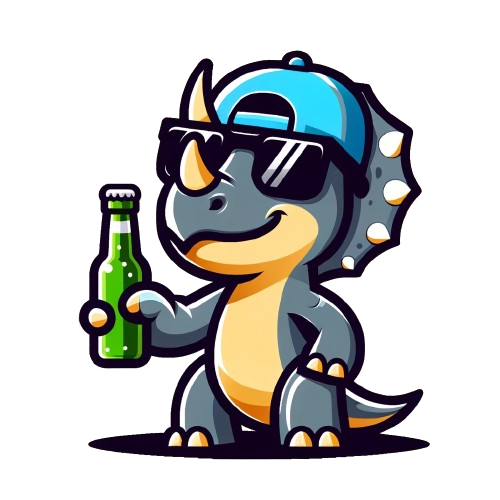
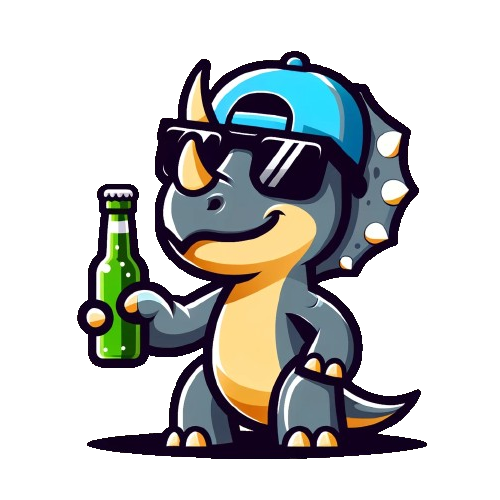
Added new images

diff --git a/util/PremadeQuestions.ts b/util/PremadeQuestions.ts
@@ -224,4 +224,92 @@ const _pmd_002: Question[] = [
   },
 ];
 
+const _pmd_003: Question[] = [
+  { gameId: "_pmd_003", questionStr: "Hvem lager de gøyeste vorsene?" },
+  { gameId: "_pmd_003", questionStr: "Hvem bruker mest penger på byen?" },
+  { gameId: "_pmd_003", questionStr: "Hvem har finest kjønnsorgan?" },
+  { gameId: "_pmd_003", questionStr: "Hvem er mest harry?" },
+  { gameId: "_pmd_003", questionStr: "Hvem er mest dirty?" },
+  { gameId: "_pmd_003", questionStr: "Hvem har sykeste fetishen?" },
+  {
+    gameId: "_pmd_003",
+    questionStr: "Hvem gir snusboksen videre med et kyss?",
+  },
+  { gameId: "_pmd_003", questionStr: "Hvem er alltid med på fylla?" },
+  { gameId: "_pmd_003", questionStr: "Hvem kjører mest brannbil?" },
+  { gameId: "_pmd_003", questionStr: "Hvem er mest luremus?" },
+  { gameId: "_pmd_003", questionStr: "Hvem mistet jomfrudommen først?" },
+  { gameId: "_pmd_003", questionStr: "Hvem mistet jomfrudommen sist?" },
+  { gameId: "_pmd_003", questionStr: "Hvem har flest sexleketøy?" },
+  { gameId: "_pmd_003", questionStr: "Hvem kunne kjøpt sex?" },
+  { gameId: "_pmd_003", questionStr: "Hvem har mest sexy antrekk?" },
+  { gameId: "_pmd_003", questionStr: "Hvem gir best rimjob?" },
+  { gameId: "_pmd_003", questionStr: "Hvem sender flest nudes?" },
+  { gameId: "_pmd_003", questionStr: "Hvem mottar flest nudes?" },
+  { gameId: "_pmd_003", questionStr: "Hvem har en dilf/milf?" },
+  { gameId: "_pmd_003", questionStr: "Hvem har sexet flest fra Tinder?" },
+  { gameId: "_pmd_003", questionStr: "Hvem svelger alltid?" },
+  {
+    gameId: "_pmd_003",
+    questionStr: "Hvem kommer flest ganger i løpet av en økt?",
+  },
+  { gameId: "_pmd_003", questionStr: "Hvem har flest ONS?" },
+  { gameId: "_pmd_003", questionStr: "Hvem har sugd en hund for 100.000 kr?" },
+  { gameId: "_pmd_003", questionStr: "Hvem blir ferdig på 2 minutter?" },
+  { gameId: "_pmd_003", questionStr: "Hvem svetter mest under sex?" },
+  { gameId: "_pmd_003", questionStr: "Hvem har hatt sex med flest?" },
+  { gameId: "_pmd_003", questionStr: "Hvem er festens sugeguri?" },
+  { gameId: "_pmd_003", questionStr: "Hvem er festens slikkerolf?" },
+  { gameId: "_pmd_003", questionStr: "Hvem vil du komme i buksa på i kveld?" },
+  { gameId: "_pmd_003", questionStr: "Hvem sovner under sex?" },
+  { gameId: "_pmd_003", questionStr: "Hvem liker BDSM?" },
+  { gameId: "_pmd_003", questionStr: "Hvem er mest kreativ i loppekassa?" },
+  { gameId: "_pmd_003", questionStr: "Hvem jobber mest på byen?" },
+  { gameId: "_pmd_003", questionStr: "Hvem er best å ha sex med i rommet?" },
+  { gameId: "_pmd_003", questionStr: "Hvem får mest oppmerksomhet på byen?" },
+  { gameId: "_pmd_003", questionStr: "Hvem får oftest whiskydick?" },
+  { gameId: "_pmd_003", questionStr: "Hvem blir mest ulik seg selv på fylla?" },
+  { gameId: "_pmd_003", questionStr: "Hvem chugger raskest?" },
+  { gameId: "_pmd_003", questionStr: "Hvem blir mest rejecta på byen?" },
+  { gameId: "_pmd_003", questionStr: "Hvem shotter mest?" },
+  { gameId: "_pmd_003", questionStr: "Hvem er beste wingman/woman?" },
+  { gameId: "_pmd_003", questionStr: "Hvem er villest på vors?" },
+  { gameId: "_pmd_003", questionStr: "Hvem barberer seg sjeldnest?" },
+  { gameId: "_pmd_003", questionStr: "Hvem er vorsets kamasutra?" },
+  { gameId: "_pmd_003", questionStr: "Hvem har onanert før vors?" },
+  {
+    gameId: "_pmd_003",
+    questionStr: "Hvem har sugd den mest massive black anaconda'en?",
+  },
+  { gameId: "_pmd_003", questionStr: "Hvem går alltid tilbake til exen?" },
+  { gameId: "_pmd_003", questionStr: "Hvem er kåtest i rommet?" },
+  {
+    gameId: "_pmd_003",
+    questionStr: "Hvem kunne meldt seg på Ex on the Beach?",
+  },
+  { gameId: "_pmd_003", questionStr: "Hvem er lettest på tråden?" },
+  { gameId: "_pmd_003", questionStr: "Hvem deler sexlivet sitt med alle?" },
+  { gameId: "_pmd_003", questionStr: "Hvem faker flest orgasmer?" },
+  { gameId: "_pmd_003", questionStr: "Hvem er høylytt i sengen?" },
+  { gameId: "_pmd_003", questionStr: "Hvem får oftest fylleangst?" },
+  { gameId: "_pmd_003", questionStr: "Hvem er den største goldiggeren?" },
+  { gameId: "_pmd_003", questionStr: "Hvem er den største cougaren?" },
+  {
+    gameId: "_pmd_003",
+    questionStr: "Hvem ville sexet faren/moren til en venn?",
+  },
+  {
+    gameId: "_pmd_003",
+    questionStr: "Hvem kunne solgt brukte truser på nett?",
+  },
+  { gameId: "_pmd_003", questionStr: "Hvem shopper flest angrepiller?" },
+  { gameId: "_pmd_003", questionStr: "Hvem er oftest å se på helsestasjonen?" },
+  { gameId: "_pmd_003", questionStr: "Hvem loker mest rundt på Pornhub?" },
+  { gameId: "_pmd_003", questionStr: "Hvem bruker buttpluggen flittigst?" },
+  { gameId: "_pmd_003", questionStr: "Hvem er minst kresen?" },
+  { gameId: "_pmd_003", questionStr: "Hvem ble utestengt under en trekant?" },
+];
+
+const _pmd_004: Question[] = [];
+
 export { _pmd_001, _pmd_002 };

diff --git a/util/ApiManager.ts b/util/ApiManager.ts
@@ -1,4 +1,4 @@
-const URL_BASE = "http://trike.azurewebsites.net/spike";
+const PROD_URL_BASE = "https://trike.azurewebsites.net/spike";
 const DEV_URL_BASE = "http://localhost:5088/spike";
 
 interface Question {
@@ -9,28 +9,25 @@ interface Question {
 const fetchQuestionsForGame = async (gameId: string) => {
   try {
     const response = await fetch(
-      `${DEV_URL_BASE}?gameId=${encodeURIComponent(gameId)}`,
+      `${PROD_URL_BASE}?gameId=${encodeURIComponent(gameId)}`,
       {
         method: "GET",
-        headers: {
-          "Content-Type": "application/json",
-        },
       }
     );
 
     if (!response.ok) {
-      throw new Error(`HTTP error! Status: ${response.status}`);
+      throw new Error(`Error: ${response.status}`);
     }
 
     return await response.json();
   } catch (error) {
-    console.error(`Error: ${error}`);
+    console.error(`GET not working: ${error}`);
   }
 };
 
 const postQuestionToGame = async (question: Question) => {
   try {
-    const response = await fetch(DEV_URL_BASE, {
+    const response = await fetch(PROD_URL_BASE, {
       method: "POST",
       headers: {
         "Content-Type": "application/json",
@@ -39,13 +36,13 @@ const postQuestionToGame = async (question: Question) => {
     });
 
     if (!response.ok) {
-      throw new Error(`HTTP error! Status: ${response.status}`);
+      throw new Error(`Error:  ${response.status}`);
     }
 
     const data = await response.text();
     return data;
   } catch (error) {
-    console.error(`Error: ${error}`);
+    console.error(`POST not working: ${error}`);
   }
 };
 

diff --git a/screens/Game/Game.tsx b/screens/Game/Game.tsx
@@ -7,13 +7,16 @@ import { Question } from "../../util/ApiManager";
 
 import BigButton from "../../components/BigButton/BigButton";
 
+import { _pmd_001, _pmd_002 } from "../../util/PremadeQuestions";
+
 interface GameProps {
   gameId: string;
   setGameId: Dispatch<SetStateAction<string>>;
+  view: string;
   setView: Dispatch<SetStateAction<string>>;
 }
 
-export default function Game({ setGameId, setView, gameId }: GameProps) {
+export default function Game({ setGameId, setView, gameId, view }: GameProps) {
   const [nextButtonText, setNextButtonText] = useState("Start Game");
   const [questions, setQuestions] = useState<Question[]>([]);
   const [question, setQuestion] = useState("");
@@ -26,6 +29,15 @@ export default function Game({ setGameId, setView, gameId }: GameProps) {
   const mascot = require("../../assets/images/raptorrune.png");
 
   useEffect(() => {
+    if (gameId === "_pmd_001") {
+      setQuestions(_pmd_001);
+    }
+
+    if (gameId === "_pmd_002") {
+      setQuestions(_pmd_002);
+      return;
+    }
+
     fetchQuestions();
   }, []);
 

diff --git a/util/GameHub.js b/util/GameHub.js
@@ -1,10 +1,11 @@
 import * as signalR from "@microsoft/signalr";
 
+const PROD_URL_BASE = "https://trike.azurewebsites.net";
 const DEV_URL_BASE = "http://localhost:5088";
 
 export const createConnection = () => {
   return new signalR.HubConnectionBuilder()
-    .withUrl(`${DEV_URL_BASE}/gamehub`)
+    .withUrl(`${PROD_URL_BASE}/gamehub`)
     .configureLogging(signalR.LogLevel.Information)
     .build();
 };
@@ -13,9 +14,7 @@ export const startConnection = (connection) => {
   return connection
     .start()
     .then(() => console.log("Connection started"))
-    .catch((err) =>
-      console.error("Error while establishing connection: ", err)
-    );
+    .catch((err) => console.error("GameHub Error: ", err));
 };
 
 export const stopConnection = (connection) => {

diff --git a/App.tsx b/App.tsx
@@ -63,9 +63,14 @@ export default function App() {
                 gameId={gameId}
               />
             ) : view === "GAME" ? (
-              <Game gameId={gameId} setGameId={setGameId} setView={setView} />
+              <Game
+                gameId={gameId}
+                setGameId={setGameId}
+                view={view}
+                setView={setView}
+              />
             ) : view === "PREMADE" ? (
-              <Premade />
+              <Premade setGameId={setGameId} />
             ) : (
               <></>
             )}

diff --git a/screens/Premade/Premade.tsx b/screens/Premade/Premade.tsx
@@ -2,11 +2,10 @@ import React, { Dispatch, SetStateAction } from "react";
 import { View, Text } from "react-native";
 
 interface PremadeProps {
-  // todo
-  // todo
+  setGameId: Dispatch<SetStateAction<string>>;
 }
 
-export default function Premade() {
+export default function Premade({ setGameId }: PremadeProps) {
   return (
     <>
       <View>

diff --git a/components/Mascot/Mascot.tsx b/components/Mascot/Mascot.tsx
@@ -2,7 +2,7 @@ import { View, Image } from "react-native";
 import { styles, imageStyle } from "./MascotStyles";
 
 export default function Mascot() {
-  const mascot = require("../../assets/images/mascot.png");
+  const mascot = require("../../assets/images/mascot.webp");
 
   return (
     <View style={styles.mascotContainer}>

diff --git a/screens/HomeOptions/HomeOptionsStyles.js b/screens/HomeOptions/HomeOptionsStyles.js
@@ -7,7 +7,7 @@ const styles = StyleSheet.create({
     justifyContent: "center",
     alignItems: "center",
     gap: 30,
-    top: 60,
+    top: 40,
   },
 });
 

diff --git a/IDEAS.md b/IDEAS.md
@@ -2,22 +2,15 @@
 
 - Make the beer tilt from side to side
 - Make the tail tilt from top to bottom
+- Alle games lagres, games må lukkes om de startes, upvotes og feed på premade
 
-# Må fikses nå
+## HA MED ?
 
-- Hvordan triggere at spm legges til så antallet kan oppdateres
 - Spaceship moving across the screen far behind (HOST/JOIN screen)
-- Legge til premade games?
-
-# Ekstra fiks
-
-- Skalere ned bilder og finpusse de
-- Legge til premade functionality?
+- Skalere ned bilder og finpusse de / rendre i App.js
 
 # Til slutt
 
-- Refaktorer
-- Fjern alle warnings
-
+- Fjern warnings i frontend
 - Les over apple sine kriterier
 - Publiser
